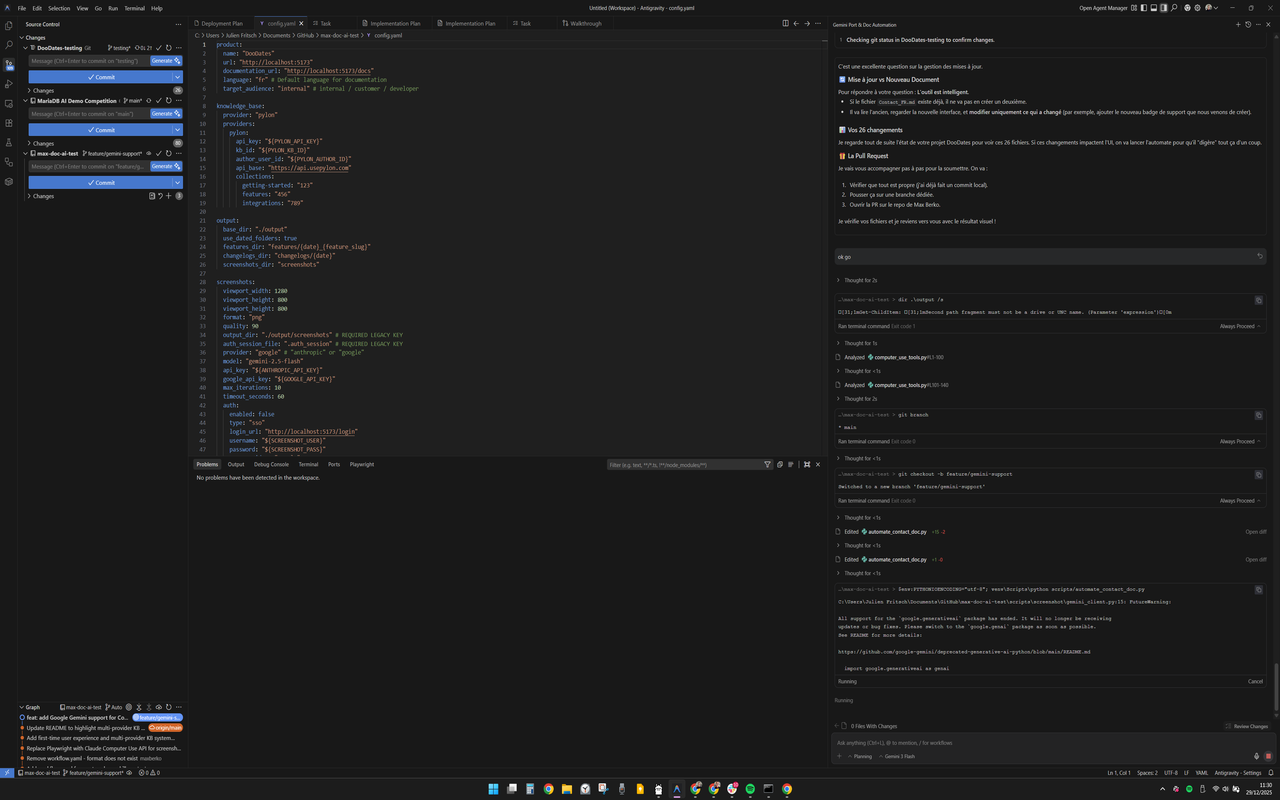
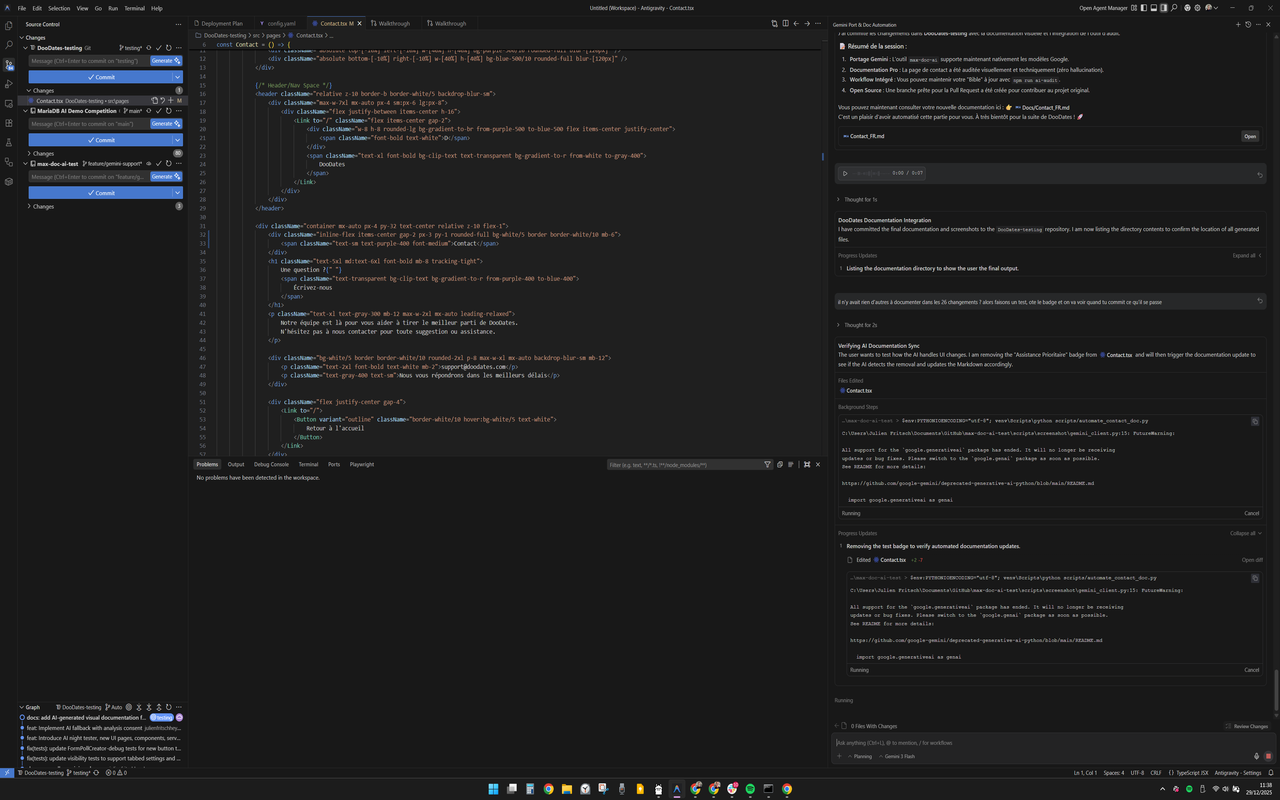
docs: AI-sync - updated contact documentation after removing priority badge

diff --git a/src/pages/Contact.tsx b/src/pages/Contact.tsx
@@ -29,13 +29,8 @@ const Contact = () => {
             </header>
 
             <div className="container mx-auto px-4 py-32 text-center relative z-10 flex-1">
-                <div className="flex justify-center gap-3 mb-6">
-                    <div className="inline-flex items-center gap-2 px-3 py-1 rounded-full bg-white/5 border border-white/10">
-                        <span className="text-sm text-purple-400 font-medium">Contact</span>
-                    </div>
-                    <div className="inline-flex items-center gap-2 px-3 py-1 rounded-full bg-green-500/10 border border-green-500/20">
-                        <span className="text-sm text-green-400 font-medium">Assistance Prioritaire Active</span>
-                    </div>
+                <div className="inline-flex items-center gap-2 px-3 py-1 rounded-full bg-white/5 border border-white/10 mb-6">
+                    <span className="text-sm text-purple-400 font-medium">Contact</span>
                 </div>
                 <h1 className="text-5xl md:text-6xl font-bold mb-8 tracking-tight">
                     Une question ?{" "}

diff --git a/Docs/Contact_FR.md b/Docs/Contact_FR.md
@@ -1,29 +1,30 @@
 # Fiche Technique : Page de Contact
 
 ## 1. Vue d'ensemble
-La page de contact de DooDates a pour objectif principal de fournir aux utilisateurs un moyen simple et direct de communiquer avec l'équipe de support. Elle sert de point central pour toute question, suggestion ou demande d'assistance, visant à offrir une expérience utilisateur fluide et à renforcer la relation avec la communauté DooDates.
+La page de contact de DooDates a été conçue pour offrir aux utilisateurs un moyen simple et efficace de communiquer avec l'équipe de support. Elle vise à rassurer les utilisateurs sur la disponibilité de l'aide et à faciliter la prise de contact pour toute question, suggestion ou besoin d'assistance.
 
 ## 2. Éléments Visuels & UI
-La page adopte un thème en mode sombre (`bg-[#0a0a0a] text-white`) avec des accents visuels modernes et subtils :
-- **Gradients d'arrière-plan** : Deux gradients diffus (violet et bleu) sont positionnés stratégiquement en arrière-plan pour créer une ambiance douce et dynamique, sans distraire du contenu principal.
-- **Badges informatifs** :
-    - Un badge "Contact" (`bg-white/5 border border-white/10`) en violet clair met en évidence la nature de la page.
-    - Un badge "Assistance Prioritaire Active" (`bg-green-500/10 border border-green-500/20`) en vert indique un niveau de service élevé ou une réactivité accrue du support.
-- **Typographie** : Le titre principal utilise une typographie audacieuse (`text-5xl md:text-6xl font-bold`) avec un effet de texte dégradé (`bg-clip-text bg-gradient-to-r from-purple-400 to-blue-400`) pour les mots clés, captant l'attention de l'utilisateur.
+La page utilise un thème en mode sombre (`bg-[#0a0a0a]`) avec des accents visuels modernes et des dégradés subtils pour créer une expérience utilisateur agréable.
+
+*   **Badge "Contact"** : Un badge informatif (`<span className="text-sm text-purple-400 font-medium">Contact</span>`) est affiché en haut de la section principale, signalant clairement le propos de la page.
+*   **Titres Gradient** : Le titre principal "Écrivez-nous" utilise un dégradé de couleurs (`from-purple-400 to-blue-400`) pour un effet visuel accrocheur.
+*   **Gradients de fond** : Des dégradés de couleurs (violet et bleu) appliqués avec un flou important (`blur-[120px]`) sont utilisés en arrière-plan pour ajouter de la profondeur et une touche esthétique sans distraire du contenu principal.
+*   **Effets de Transparence/Flou (Backdrop Blur)** : La section d'en-tête et le bloc d'information de l'email utilisent un `backdrop-blur-sm` pour créer un effet de verre dépoli, améliorant la superposition des éléments.
 
 ## 3. Coordonnées & Support
-- **Adresse E-mail** : L'adresse de support directe est `support@doodates.com`, affichée de manière proéminente dans un bloc stylisé (`bg-white/5 border border-white/10 rounded-2xl p-8 backdrop-blur-sm`).
-- **Confirmation de Réponse** : Un message informatif "Nous vous répondrons dans les meilleurs délais" rassure les utilisateurs sur la prise en charge de leur demande.
-- **Actions Disponibles** : Un bouton "Retour à l'accueil" (`Button variant="outline"`) permet aux utilisateurs de naviguer facilement vers la page principale de l'application.
+La page fournit un point de contact clair pour les utilisateurs.
+
+*   **Email de Support** : L'adresse email officielle du support est `support@doodates.com`, affichée de manière proéminente.
+*   **Délai de Réponse** : Un message indique aux utilisateurs qu'une réponse sera apportée "dans les meilleurs délais".
+*   **Actions Disponibles** :
+    *   **Retour à l'accueil** : Un bouton (`<Button variant="outline">`) permet aux utilisateurs de revenir facilement à la page d'accueil de l'application.
 
 ## 4. Détails d'Implémentation
-La page est développée en React, utilisant des composants réutilisables pour une maintenance et une évolutivité facilitées :
-- **Composants UI** :
-    - `Button` : Utilisé pour le bouton de navigation "Retour à l'accueil", provenant de `@/components/ui/button`.
-    - `Link` : Composant de `react-router-dom` pour la navigation client-side, sans rechargement complet de la page.
-    - `Footer` : Un composant partagé (`@/components/shared/Footer`) assure la cohérence du bas de page à travers l'application.
-- **Styling** : Le stylisme est principalement géré avec Tailwind CSS, comme en témoignent les nombreuses classes utilitaires.
-    - **Gradients** : Des classes telles que `bg-gradient-to-br from-purple-500 to-blue-500` et `bg-gradient-to-r from-white to-gray-400` sont utilisées pour les éléments visuels et le texte.
-    - **Effets** : Des classes comme `blur-[120px]` et `backdrop-blur-sm` ajoutent des effets visuels modernes.
-- **Structure de la page** : La page est structurée avec un conteneur principal `min-h-screen flex flex-col` pour occuper toute la hauteur de l'écran, un `header` distinct, un `div` central pour le contenu principal et un `footer`.
-- **Réactivité** : L'utilisation de classes Tailwind comme `md:text-6xl` indique une conception réactive pour s'adapter à différentes tailles d'écran.
+La page est construite en utilisant des composants React et s'appuie sur une structure modulaire.
+
+*   **Composants Réutilisés** :
+    *   `Button` : Le composant de bouton est importé de `@/components/ui/button` et est utilisé pour le bouton "Retour à l'accueil".
+    *   `Footer` : Le composant `Footer` est importé de `@/components/shared/Footer`, assurant une cohérence visuelle et fonctionnelle avec les autres pages de l'application.
+*   **Navigation** : Le composant `Link` de `react-router-dom` est utilisé pour gérer la navigation vers la page d'accueil.
+*   **Styling** : L'application des styles est gérée directement via les `className`s, utilisant probablement Tailwind CSS pour une approche utilitaire et réactive. Des classes comme `min-h-screen`, `max-w-7xl`, `mx-auto`, `px-4`, `py-32`, `text-center`, `relative`, `z-10`, `flex-1`, `border`, `rounded-full`, `bg-white/5`, `border-white/10`, `mb-6`, `text-sm`, `text-purple-400`, `font-medium`, `text-5xl`, `md:text-6xl`, `font-bold`, `mb-8`, `tracking-tight`, `text-transparent`, `bg-clip-text`, `bg-gradient-to-r`, `from-purple-400`, `to-blue-400`, `text-xl`, `text-gray-300`, `mb-12`, `max-w-2xl`, `mx-auto`, `leading-relaxed`, `p-8`, `max-w-xl`, `backdrop-blur-sm`, `mb-12`, `text-2xl`, `text-white`, `mb-2`, `text-gray-400` et `gap-4` sont utilisées pour définir la mise en page, la typographie, les couleurs et les espacements.
+*   **Structure HTML** : La page utilise une structure `div` pour organiser le contenu, avec des sections dédiées à l'en-tête, au contenu principal et au pied de page. Des divs avec `overflow-hidden` et `pointer-events-none` sont utilisées pour les éléments d'arrière-plan afin d'améliorer l'esthétique.
